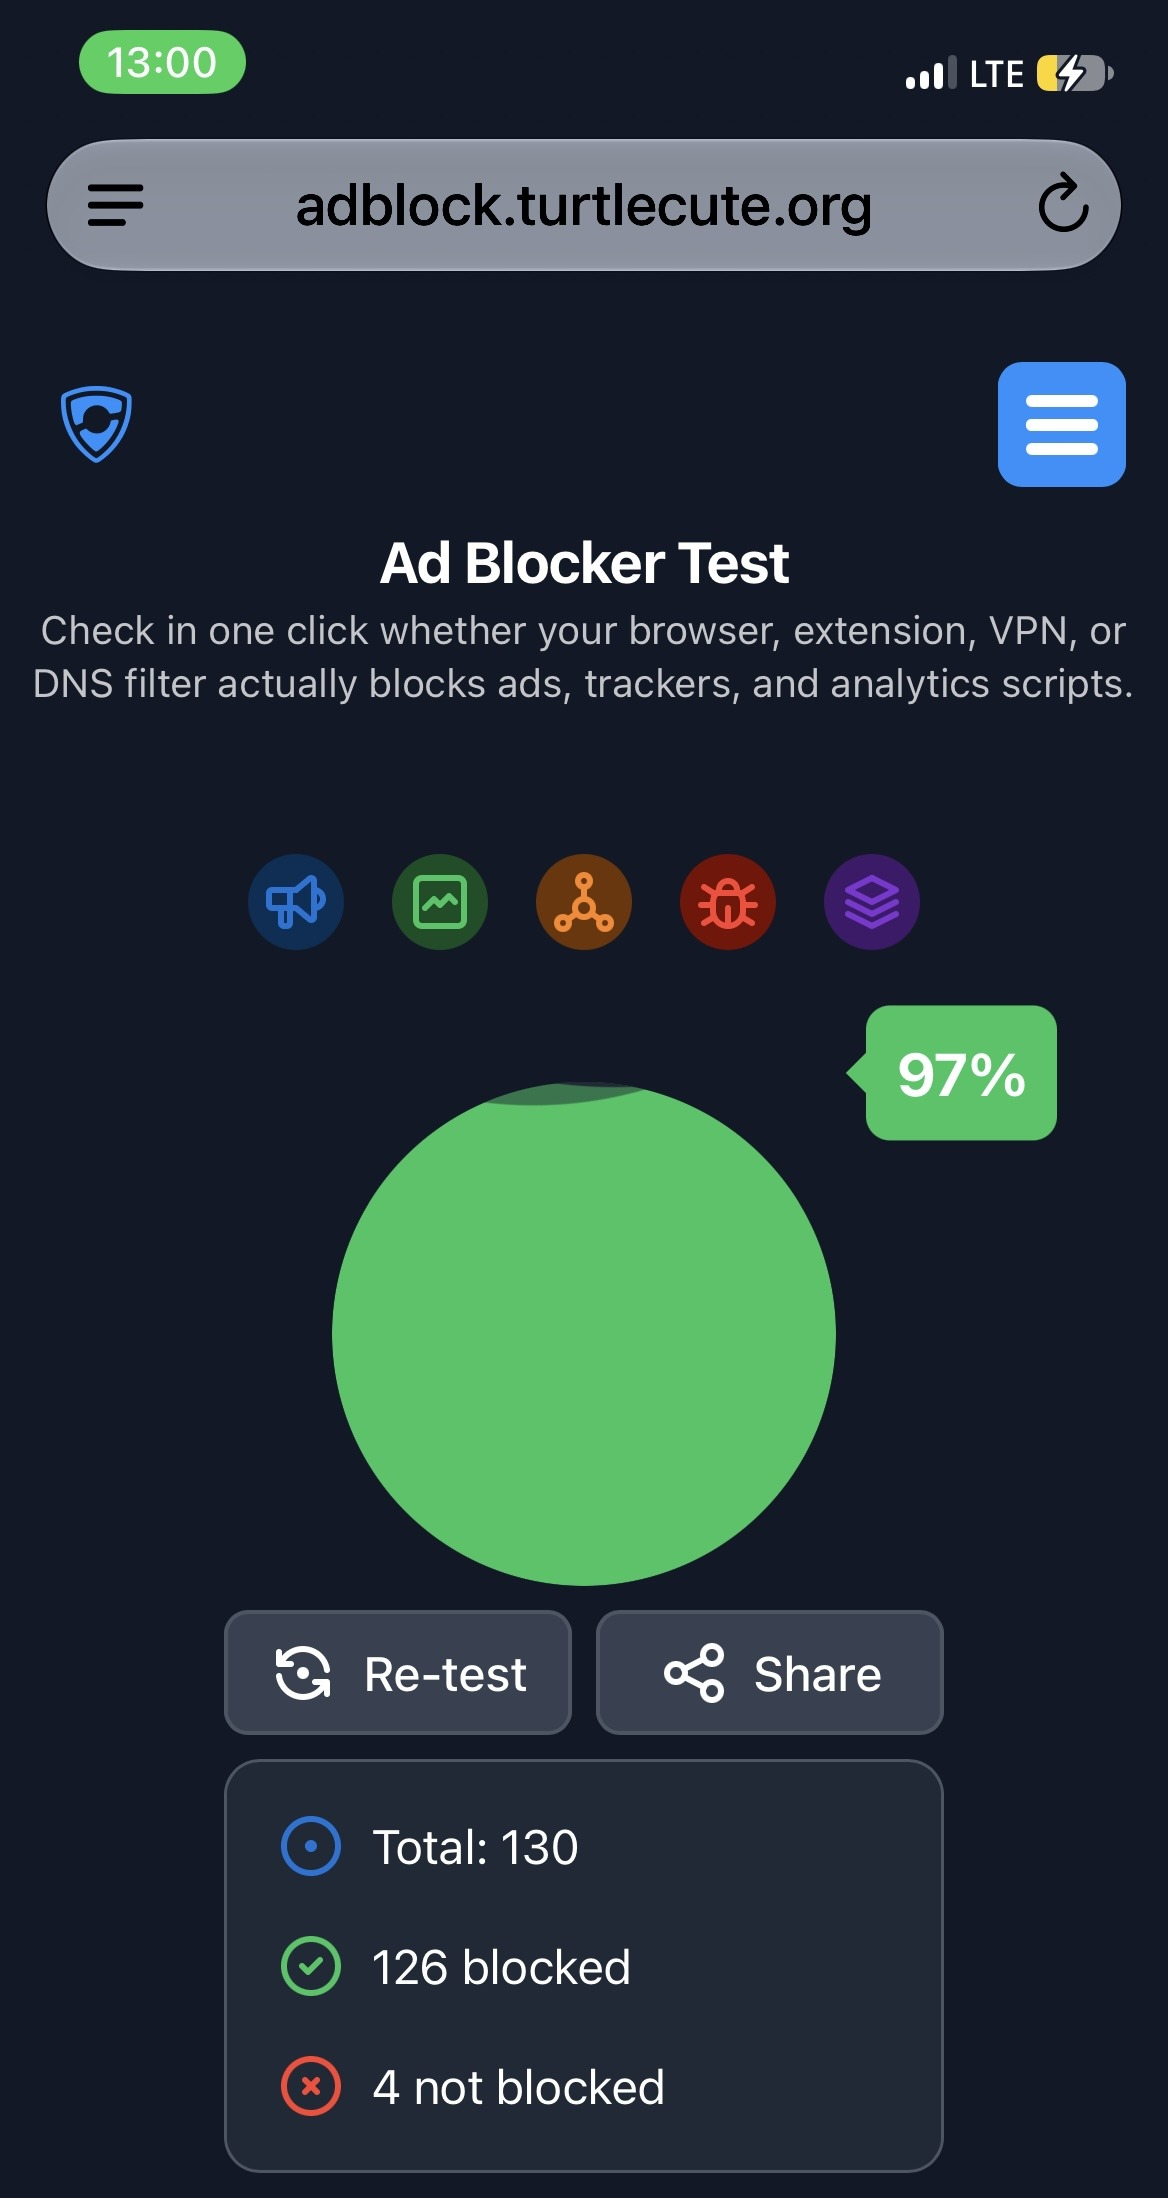
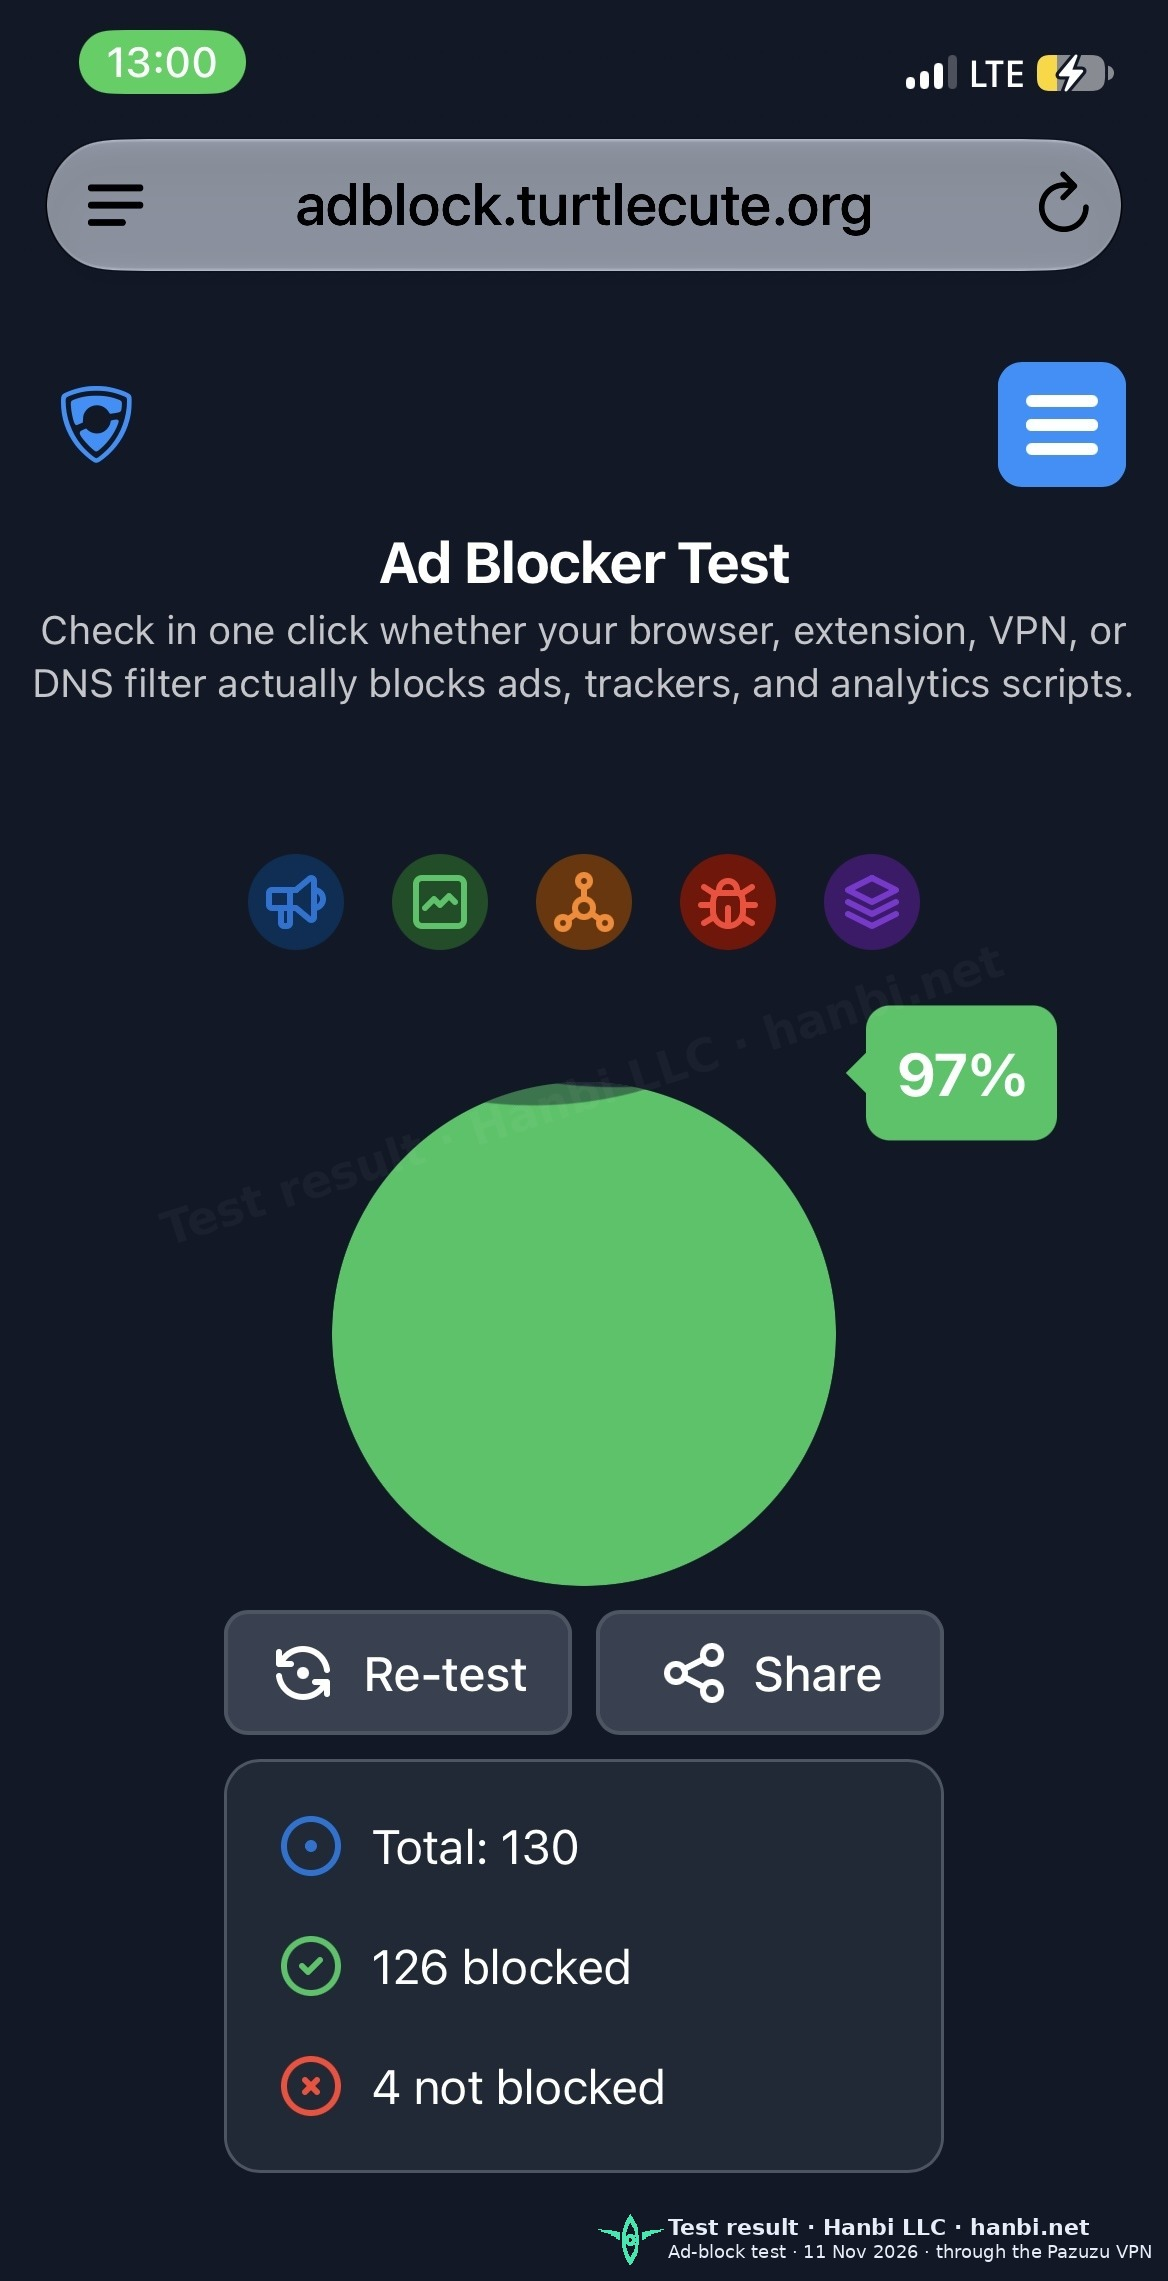
Proof photos: stamped with a test-result line (the page shown is the test site's, not ours to claim)
Claude-Session: https://claude.ai/code/session_012c87MBGeZRWPhK5SvqYZGj

diff --git a/COORDINATION.md b/COORDINATION.md
@@ -19,7 +19,8 @@ This repo is the source for the Hardware section of hanbi.net. Device entries ar
 - **Screenshots carry the Hanbi stamp** before they go into `assets/proof/` or onto the site: a faint "© 2026 Hanbi
   LLC · hanbi.net" across the middle and a credit band under the picture. The box chat stamps them. Photos of a
   device's own hardware are ours to stamp too. A screenshot of someone else's website is not stamped as ours; the
-  two ad-block proof photos wait for the maintainer's call on a "test result" line instead.
+  two ad-block proof photos carry "Test result · Hanbi LLC · hanbi.net" in its place (decided 18 Nov; the box chat's
+  `packaging/watermark.py --test-result`). Both are stamped so in `assets/proof/` (18 Nov).
 - **The access point is "Hanbi Anzu"** (or "Anzu by Hanbi"), never "Anzu" alone.
 - **Copyright lines name Hanbi LLC.**
 
